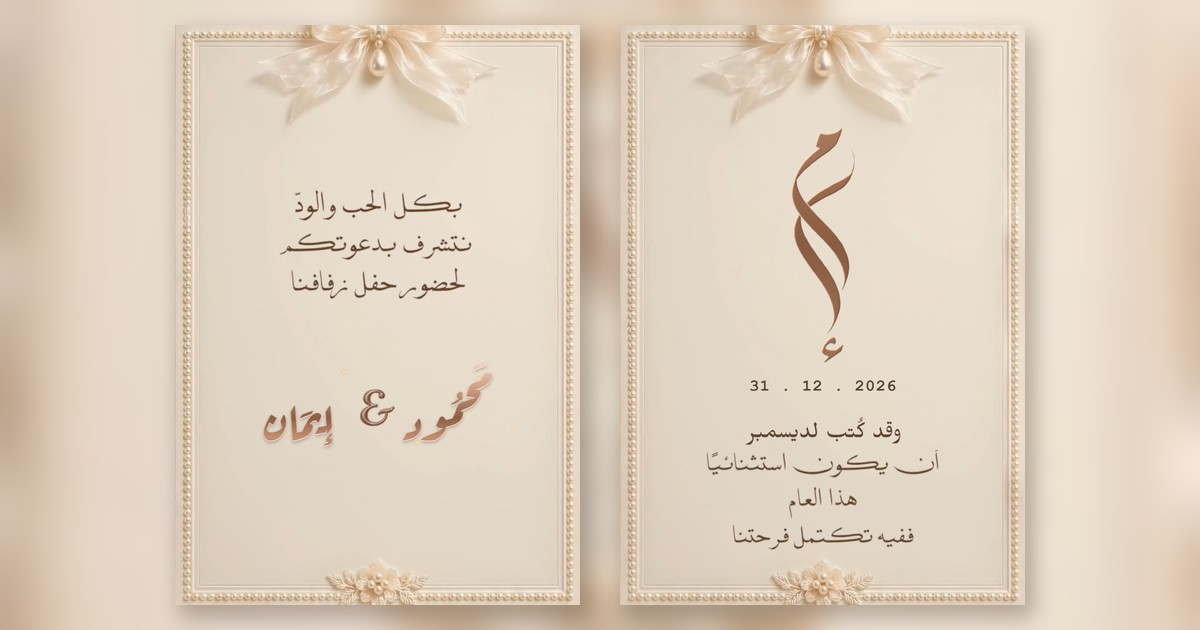
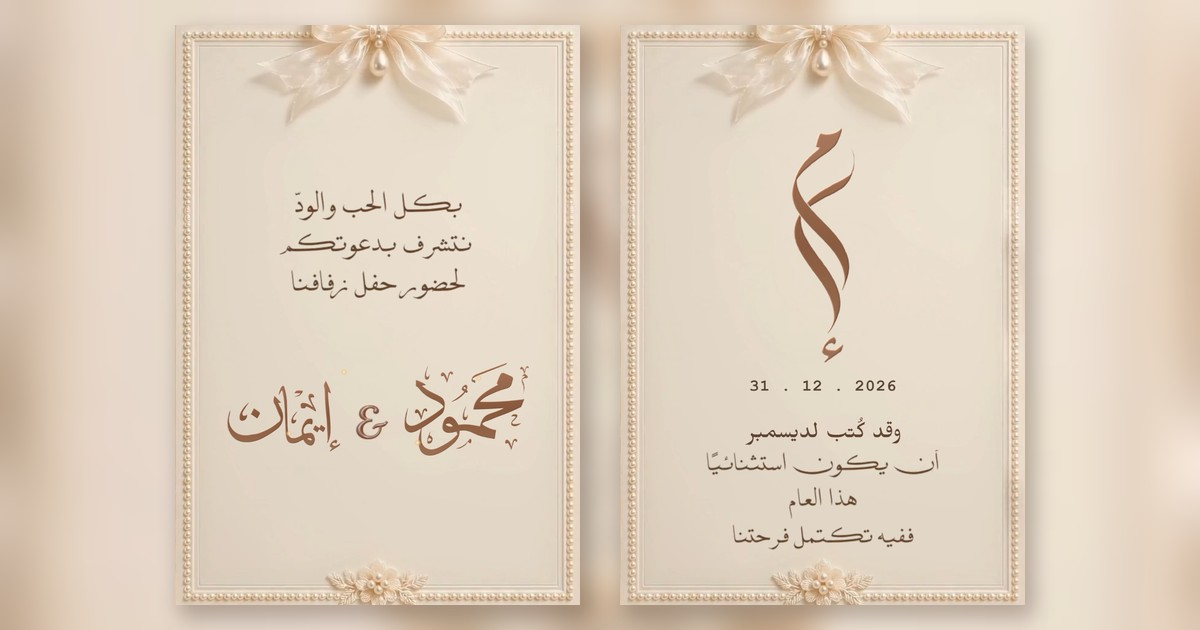
دعوة wImbSsn: أسامي محمود وإيمان بخط المالك (ذهبي زي الفيديو)، زرار اللوكيشن بيفتح الخريطة فعلًا، شيل يرجى تأكيد الحضور
Claude-Session: https://claude.ai/code/session_01VKo1mCg4U4XatxSLATVCTJ

Changed region(s): [[0.185, 0.573, 0.4317, 0.7238]]

diff --git a/custom-invitations/wImbSsn.html b/custom-invitations/wImbSsn.html
@@ -29,7 +29,7 @@ body{font-family:'Times New Roman',serif}
 .sec.on .el.mono{clip-path:inset(0 0 0 0);transition:opacity .6s ease,clip-path 2s cubic-bezier(.45,.05,.3,1);transition-delay:var(--d,0s)}
 .el.names{filter:none;transform:none;clip-path:inset(0 0 0 100%)}
 .sec.on .el.names{clip-path:inset(0 0 0 0);transition:opacity .5s ease,clip-path 2.2s cubic-bezier(.45,.05,.3,1);transition-delay:var(--d,0s)}
-.locbtn{position:absolute;left:190px;top:930px;width:340px;height:62px;z-index:6;display:flex;align-items:center;justify-content:center;gap:12px;box-sizing:border-box;
+.locbtn{position:absolute;left:190px;top:880px;width:340px;height:62px;z-index:6;display:flex;align-items:center;justify-content:center;gap:12px;box-sizing:border-box;
   border-radius:40px;border:1.5px solid rgba(122,84,62,.55);background:linear-gradient(180deg,rgba(255,251,246,.92),rgba(244,233,222,.92));
   color:#5f4333;font:700 25px 'Segoe UI',Tahoma,Arial,sans-serif;text-decoration:none;pointer-events:auto;box-shadow:0 8px 18px -10px rgba(90,60,40,.55)}
 .locbtn svg{width:28px;height:28px;flex:none}
@@ -132,6 +132,19 @@ __ELEMENTS__
     b.setAttribute('data-d', '3.9'); b.style.setProperty('--d', '3.9s');
     secs[4].appendChild(b);
   })();
+  // صفحات السكرول الشفافة فوق المسرح بتاخد الضغطة — فالضغطة على زرار/أيقونة/اسم المكان بتتحوّل هنا للوكيشن
+  document.addEventListener('click', function (e) {
+    if (!ready || cur < 0) return;
+    var hit = false;
+    secs[cur].querySelectorAll('a.map, a.locbtn').forEach(function (a) {
+      var r = a.getBoundingClientRect();
+      if (e.clientX >= r.left && e.clientX <= r.right && e.clientY >= r.top && e.clientY <= r.bottom) hit = true;
+    });
+    if (!hit) return;
+    e.preventDefault();
+    var w = null; try { w = window.open(MAP, '_blank'); } catch (x) {}
+    if (!w) location.href = MAP;
+  });
   // لمعة حوالين الأسامي (المشهد 4)
   [[150, 720], [210, 800], [300, 700], [420, 815], [520, 710], [575, 790], [250, 760], [470, 760], [360, 690], [380, 835]].forEach(function (p, i) {
     var k = document.createElement('i'); k.className = 'spk';
